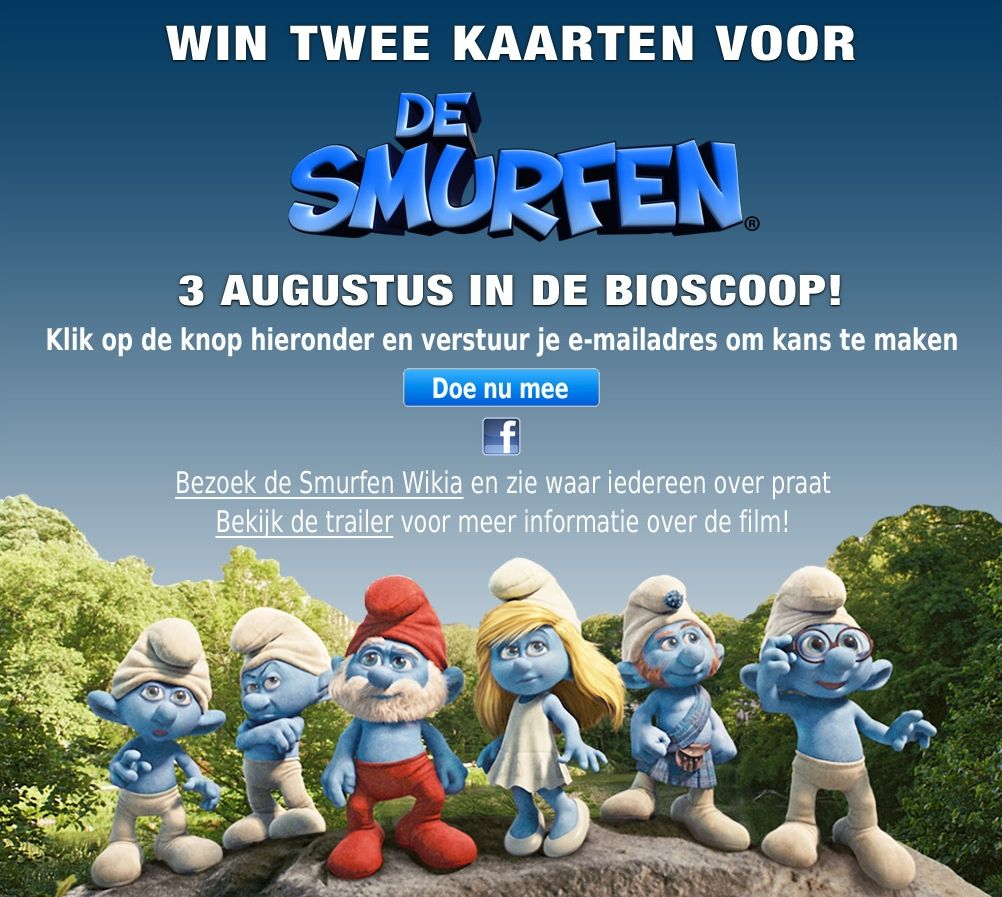
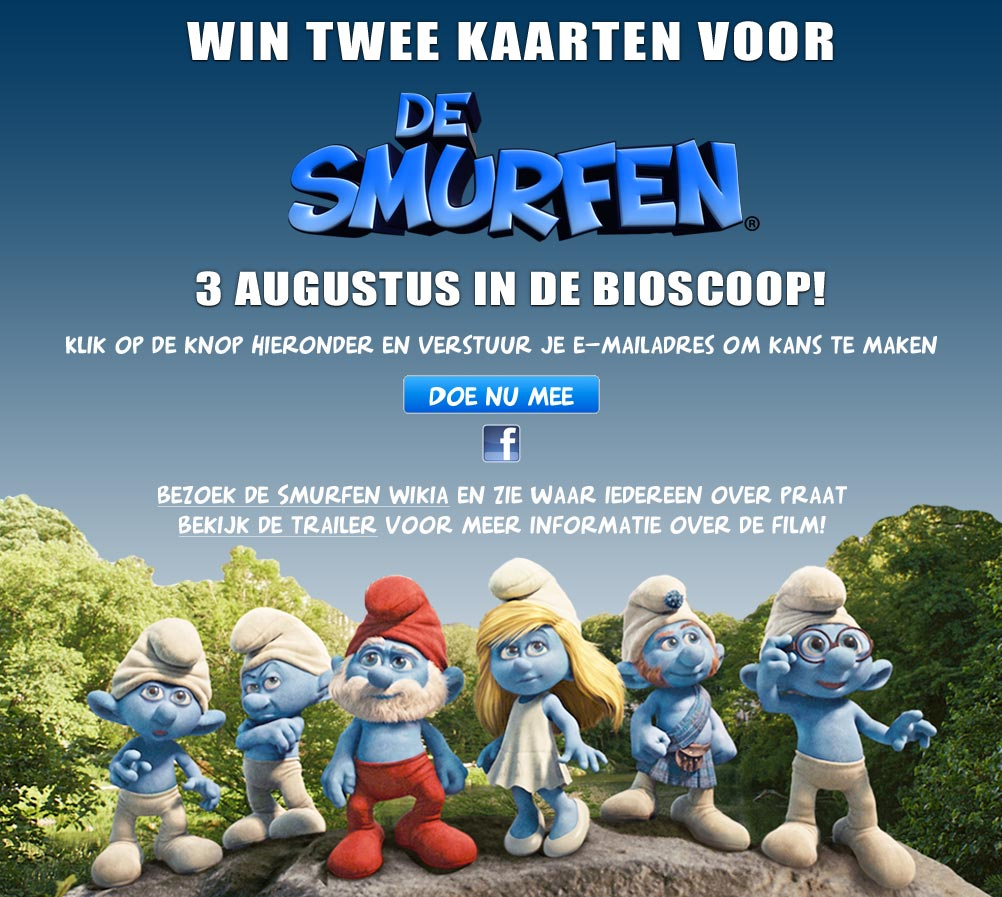
updates
git-svn-id: https://svn.wikia-code.com/wikia/trunk@39715 e846bd91-c042-42a7-a218-4b65e2c1904d

Changed region(s): [[0.0309, 0.2809, 0.9591, 0.6243], [0.1547, 0.0, 0.8663, 0.0936]]

diff --git a/extensions/wikia/LandingPageSmurfs/css/LandingPageSmurfs.scss b/extensions/wikia/LandingPageSmurfs/css/LandingPageSmurfs.scss
@@ -29,26 +29,26 @@
 		background-image: url('/extensions/wikia/LandingPageSmurfs/images/fr.jpg'); /* wgCdnStylePath */
 		.smurfs-link-enter {
 			left: 403px;
-			top: 346px;
+			top: 330px;
 			width: 197px;
 			height: 39px;
 		}
 		.smurfs-link-fb {
 			left: 482px;
-			top: 397px;
+			top: 381px;
 			width: 39px;
 			height: 39px;
 		}
 		.smurfs-link-wiki {
-			left: 150px;
-			top: 449px;
-			width: 284px;
+			left: 139px;
+			top: 431px;
+			width: 277px;
 			height: 29px;
 		}
 		.smurfs-link-trailer {
-			left: 102px;
-			top: 485px;
-			width: 254px;
+			left: 41px;
+			top: 462px;
+			width: 292px;
 			height: 29px;
 		}
 	}
@@ -57,26 +57,26 @@
 		background-image: url('/extensions/wikia/LandingPageSmurfs/images/nl.jpg'); /* wgCdnStylePath */
 		.smurfs-link-enter {
 			left: 403px;
-			top: 368px;
+			top: 375px;
 			width: 197px;
 			height: 39px;
 		}
 		.smurfs-link-fb {
 			left: 482px;
-			top: 417px;
+			top: 424px;
 			width: 39px;
 			height: 39px;
 		}
 		.smurfs-link-wiki {
-			left: 175px;
-			top: 470px;
-			width: 289px;
+			left: 153px;
+			top: 481px;
+			width: 300px;
 			height: 29px;
 		}
 		.smurfs-link-trailer {
-			left: 215px;
-			top: 509px;
-			width: 179px;
+			left: 175px;
+			top: 511px;
+			width: 206px;
 			height: 29px;
 		}
 	}

diff --git a/extensions/wikia/LandingPageSmurfs/LandingPageSmurfs.i18n.php b/extensions/wikia/LandingPageSmurfs/LandingPageSmurfs.i18n.php
@@ -14,9 +14,9 @@ $messages['en'] = array(
 $messages['fr'] = array(
 	'landingpagesmurfs' => 'Les Schtroumpfs en 3D',
 	'landingpagesmurfs-enternow' => 'Valider',
-	'landingpagesmurfs-enternow-email-title' => 'Gagne 2 places pour aller voir Les Schtroumpfs en 3D- FR',
+	'landingpagesmurfs-enternow-email-title' => 'Gagne 2 places pour Les Schtroumpfs en 3D - FR',
 	'landingpagesmurfs-wikia-site-link' => '[http://www.smurfs.wikia.com Visite le Wiki Schtroumpf]',
-	'landingpagesmurfs-site-url' => 'http://www.lesschtroumpfs-lefilm.fr/',
+	'landingpagesmurfs-site-url' => 'http://www.facebook.com/Les.Schtroumpfs.LeFilm',
 	'landingpagesmurfs-facebook-url' => 'http://www.facebook.com/Les.Schtroumpfs.LeFilm',
 );
 
